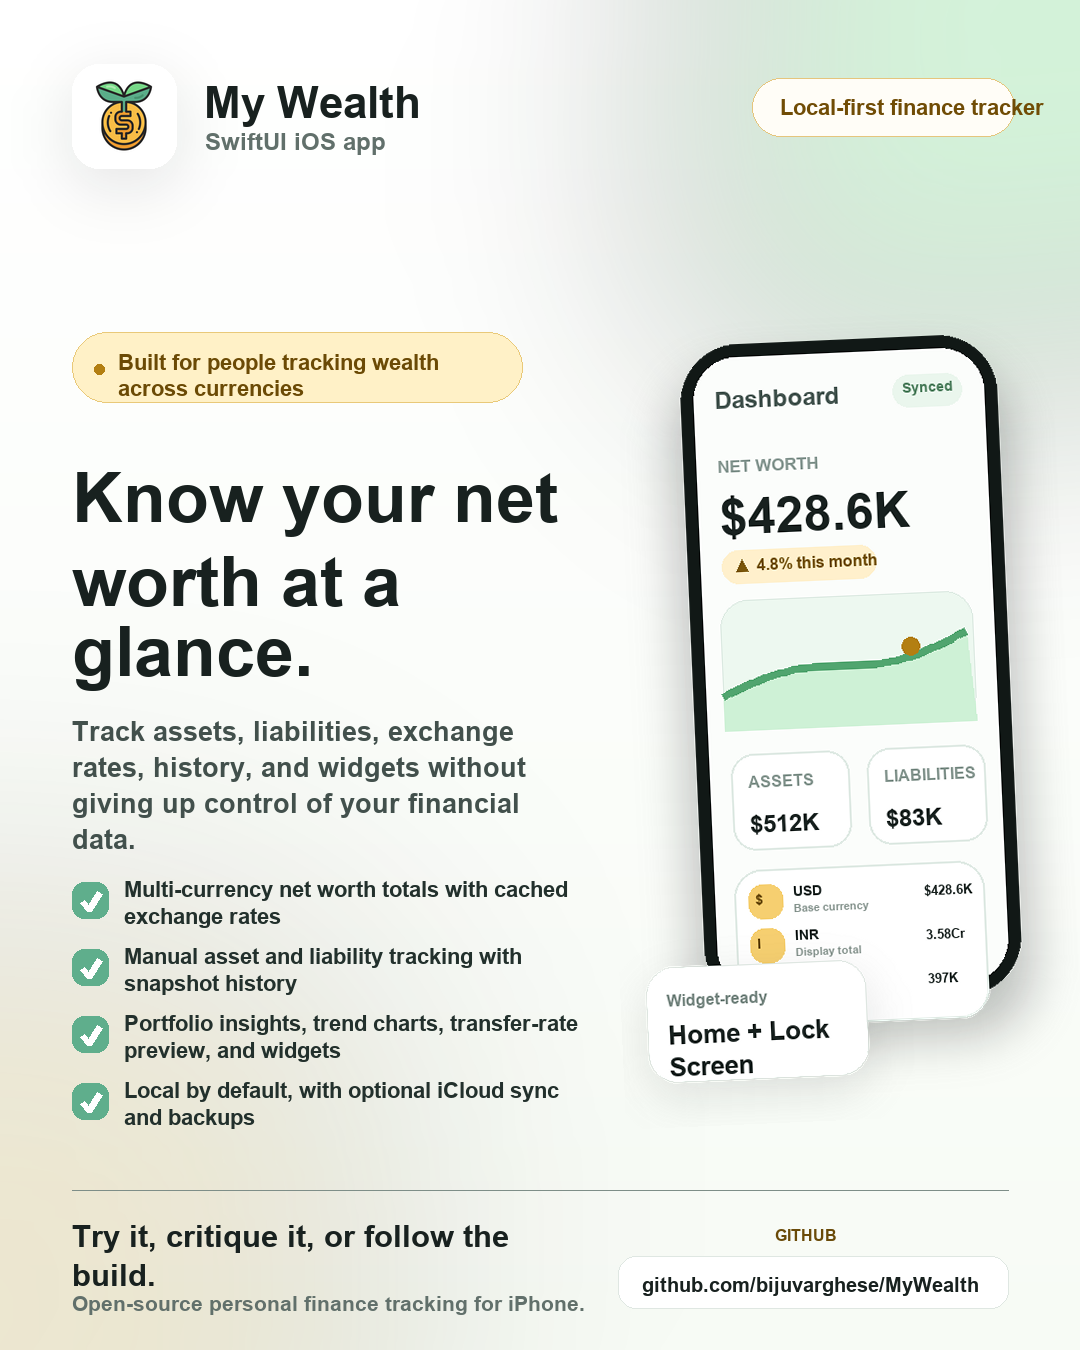
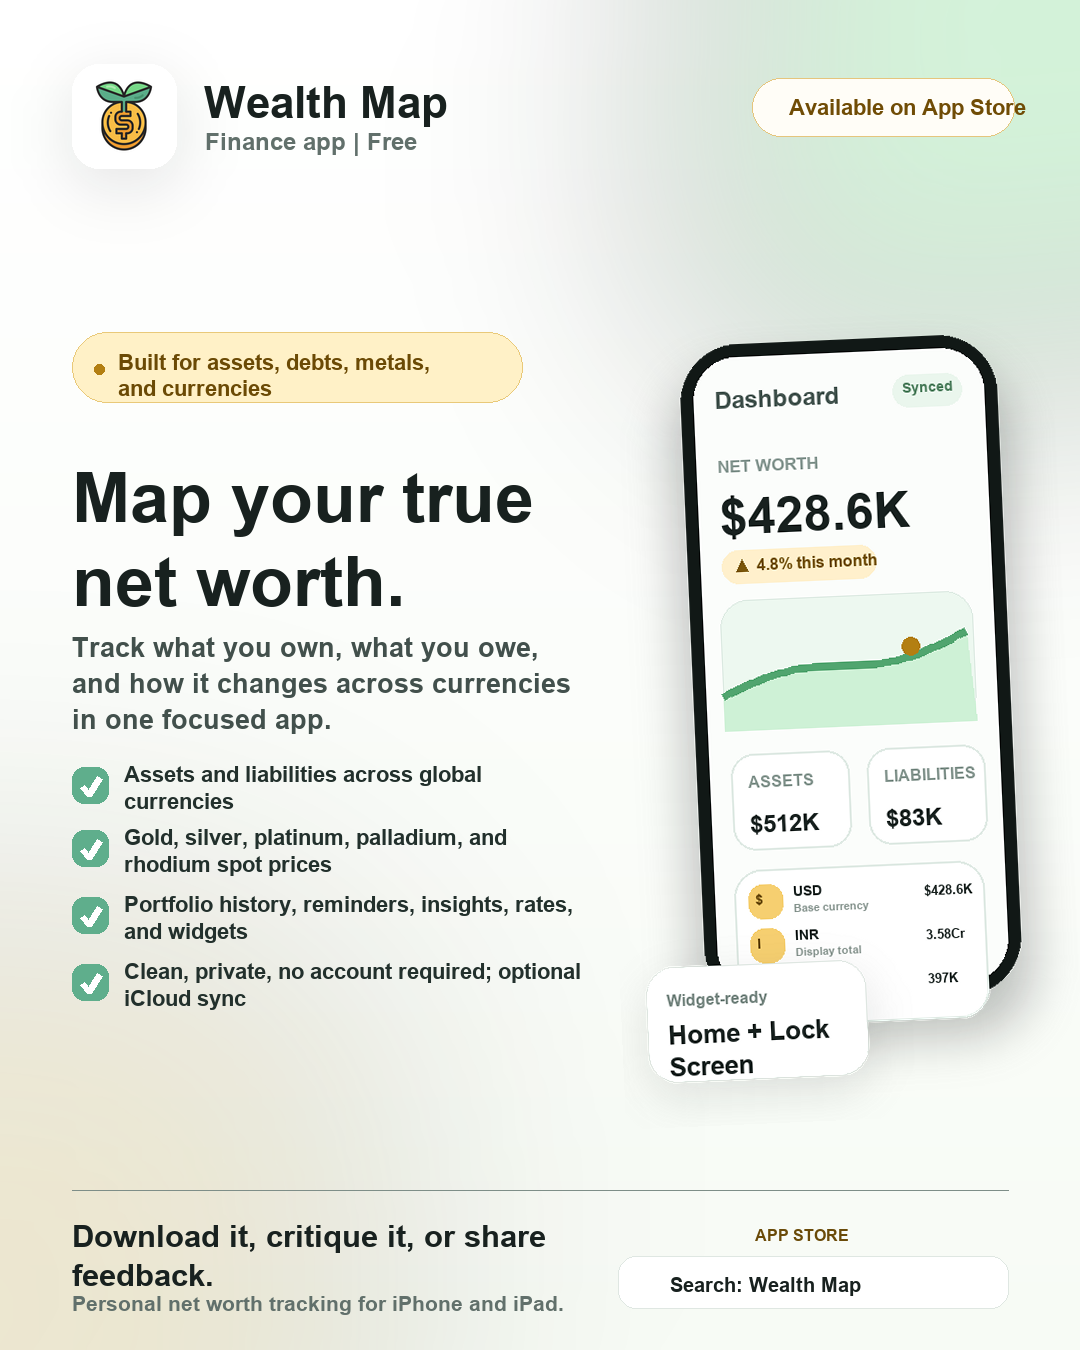
Finish Wealth Map rebrand

diff --git a/outputs/marketing/reddit-flyer/mywealth-reddit-flyer.html b/outputs/marketing/reddit-flyer/mywealth-reddit-flyer.html
@@ -3,7 +3,7 @@
 <head>
   <meta charset="utf-8">
   <meta name="viewport" content="width=device-width, initial-scale=1">
-  <title>My Wealth Reddit Flyer</title>
+  <title>Wealth Map Reddit Flyer</title>
   <style>
     :root {
       --gold: #b37f12;
@@ -473,14 +473,14 @@
   </style>
 </head>
 <body>
-  <main class="flyer" aria-label="My Wealth marketing flyer">
+  <main class="flyer" aria-label="Wealth Map marketing flyer">
     <div class="grid"></div>
     <section class="content">
       <header class="topbar">
         <div class="brand">
-          <img class="app-icon" src="../../../../MyWealth/Assets.xcassets/AppIcon.appiconset/1024.png" alt="My Wealth app icon">
+          <img class="app-icon" src="../../../../MyWealth/Assets.xcassets/AppIcon.appiconset/1024.png" alt="Wealth Map app icon">
           <div class="brand-copy">
-            <div class="brand-name">My Wealth</div>
+            <div class="brand-name">Wealth Map</div>
             <div class="brand-meta">SwiftUI iOS app</div>
           </div>
         </div>

diff --git a/MyWealth/Core/DataPortability.swift b/MyWealth/Core/DataPortability.swift
@@ -135,7 +135,7 @@ enum DataExporter {
         encoder.outputFormatting = [.prettyPrinted, .sortedKeys]
         let data = try encoder.encode(payload)
 
-        let filename = "MyWealth-\(formattedExportDate()).backup"
+        let filename = "WealthMap-\(formattedExportDate()).backup"
         let url = FileManager.default.temporaryDirectory.appendingPathComponent(filename)
         try data.write(to: url, options: .atomic)
         return url

diff --git a/scripts/check-cache-freshness.js b/scripts/check-cache-freshness.js
@@ -240,7 +240,7 @@ function buildSlackPayload(results, overallStatus) {
     attachments: [
       {
         color,
-        text: `${emoji} MyWealth cache freshness check: ${statusLabel}\n${body}`,
+        text: `${emoji} Wealth Map cache freshness check: ${statusLabel}\n${body}`,
       },
     ],
   };

diff --git a/requirements.md b/requirements.md
@@ -1,12 +1,12 @@
-# My Wealth - Requirements
+# Wealth Map - Requirements
 
 Last updated: May 25, 2026
 
-This document defines the current product requirements for the My Wealth iOS app and its exchange-rate proxy. It reflects the current app state: onboarding, local asset and liability tracking, multi-currency net worth, display-currency ordering, exchange-rate caching, portfolio history, widgets, iCloud sync, backup import/export, reminders, and the Firebase rate proxy.
+This document defines the current product requirements for the Wealth Map iOS app and its exchange-rate proxy. It reflects the current app state: onboarding, local asset and liability tracking, multi-currency net worth, display-currency ordering, exchange-rate caching, portfolio history, widgets, iCloud sync, backup import/export, reminders, and the Firebase rate proxy.
 
 ## Product Overview
 
-My Wealth is a SwiftUI iOS app for tracking personal net worth across currencies. Users can configure preferred currencies, arrange display-currency priority, add and maintain assets and liabilities, view converted portfolio totals, monitor transfer rates, review portfolio insights and history, see widget summaries, and rely on cached exchange-rate data fetched through a Firebase proxy.
+Wealth Map is a SwiftUI iOS app for tracking personal net worth across currencies. Users can configure preferred currencies, arrange display-currency priority, add and maintain assets and liabilities, view converted portfolio totals, monitor transfer rates, review portfolio insights and history, see widget summaries, and rely on cached exchange-rate data fetched through a Firebase proxy.
 
 User financial data is stored locally by default. Users may opt into iCloud-backed backup and sync through their personal iCloud account. The app does not provide account aggregation, bank connections, or remote app-managed user accounts.
 
@@ -251,7 +251,7 @@ User financial data is stored locally by default. Users may opt into iCloud-back
 
 ## Planned Enhancements
 
-### MyWealth 3.2+ Suggested Features
+### Wealth Map 3.2+ Suggested Features
 
 These feature ideas build on the existing portfolio history, liability tracking, data portability, and iOS platform foundations. They are not current shipped behavior.
 

diff --git a/README.md b/README.md
@@ -1,4 +1,4 @@
-# My Wealth
+# Wealth Map
 
 [![Latest Release](https://img.shields.io/github/v/release/bijuvarghese/MyWealth?label=latest%20release)](https://github.com/bijuvarghese/MyWealth/releases/latest)
 [![Platform](https://img.shields.io/badge/platform-iOS-blue)](https://github.com/bijuvarghese/MyWealth)
@@ -7,7 +7,7 @@
 [![Functions CI](https://github.com/bijuvarghese/MyWealth/actions/workflows/functions-ci.yml/badge.svg?branch=main)](https://github.com/bijuvarghese/MyWealth/actions/workflows/functions-ci.yml)
 [![Cache Monitor](https://github.com/bijuvarghese/MyWealth/actions/workflows/cache-monitor.yml/badge.svg?branch=main)](https://github.com/bijuvarghese/MyWealth/actions/workflows/cache-monitor.yml)
 
-My Wealth is a SwiftUI iOS app for tracking personal net worth across currencies. It supports manual asset and liability tracking, converted net worth totals, transfer-rate and precious-metal monitoring, portfolio insights, FIRE projections, AI-assisted portfolio briefings, snapshot-based history, home and lock screen widgets, optional iCloud sync, backup import/export, and configurable portfolio reminders.
+Wealth Map is a SwiftUI iOS app for tracking personal net worth across currencies. It supports manual asset and liability tracking, converted net worth totals, transfer-rate and precious-metal monitoring, portfolio insights, FIRE projections, AI-assisted portfolio briefings, snapshot-based history, home and lock screen widgets, optional iCloud sync, backup import/export, and configurable portfolio reminders.
 
 Financial data is stored locally by default. Users can opt in to iCloud backup and sync, and can export or import a `.backup` file for portability. Exchange rates, metal prices, and AI analysis are routed through Firebase HTTPS Cloud Functions so provider API keys are never shipped in the app bundle.
 